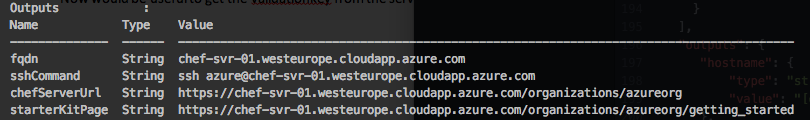
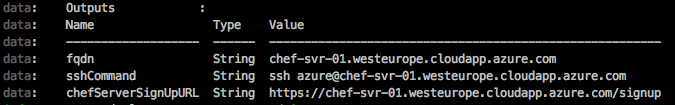
Updates to support the new Chef AMP Image 3.1.0 Setup script has been simplified Template has been updated to allow being used as part of a larger template as a shared template Added changelog file to track the changes to the now versioned template

diff --git a/arm-chef-server/README.md b/arm-chef-server/README.md
@@ -1,31 +1,36 @@
 # Creating a Chef Server using an ARM template
 
-This template will create a Chef server in the specified resource group.  The software will be installed and configured according to the parameters that have been supplied.  This update means that no manual operations are required to get the Chef server up and running.
+This template will create a Chef server in the specified resource group.  The script will ensure that the FDQN of the machine is set correctly and will reconfigure the Chef server.  After that it is necessary to configure the server using the web interface which will be at https://<FQDN>/signup.
 
 ## Parameters
 
 The following table describes what each parameter is used for and any that have default values.
 
-| Name               | Description                                                                                                           | Default Value     | Example     |
-|:-------------------|:----------------------------------------------------------------------------------------------------------------------|:------------------|:------------|
-| vmName             | Name of the virtual machine                                                                                           |                   | chef-svr-01 |
-| adminUsername      | SSH username for the server                                                                                           | azure             |             |
-| adminPassword      | Password for the admin user                                                                                           |                   |             |
-| dnsLabelPrefix     | Name that will be assigned to the DNS to make an FQDN for the machine. Typically this would be the same as the vmName |                   | chef-svr-01 |
-| chefServerSKU      | Name of the Chef Server SKU to use.                                                                                   | chefbyol          |             |
-| chefAdminUser      | Username of the account to create on the chef server                                                                  | admin             |             |
-| chefAdminPassword  | Password to be associated with the admin user                                                                         |                   |             |
-| chefAdminFirstname | Firstname of the admin account user                                                                                   | Admin             |             |
-| chefAdminLastname  | Lastname of the admin account user                                                                                    | Account           |             |
-| chefAdminEmail     | Email address for the admin account                                                                                   |                   |             |
-| chefOrganization   | Name of the first organization to create on the chef server                                                           |                   | AzureOrg    |
-| customScriptURL    | The Public URL from which the script to setup the server can be downloaded from.                                      | &lt;SEE BELOW&gt; |             |
+| Name            | Description                                                                                                           | Default Value     | Example     |
+|:----------------|:----------------------------------------------------------------------------------------------------------------------|:------------------|:------------|
+| vmName          | Name of the virtual machine                                                                                           |                   | chef-svr-01 |
+| adminUsername   | SSH username for the server                                                                                           | azure             |             |
+| adminPassword   | Password for the admin user                                                                                           |                   |             |
+| dnsLabelPrefix  | Name that will be assigned to the DNS to make an FQDN for the machine. Typically this would be the same as the vmName |                   | chef-svr-01 |
+| chefServerSKU   | Name of the Chef Server SKU to use.                                                                                   | chefbyol          |             |
+| customScriptURL | The Public URL from which the script to setup the server can be downloaded from.                                      | &lt;SEE BELOW&gt; |             |
 
 Any of the parameters that have a default value do not appear in the `chefserver.parameters.json` file.  However to override the values add them to this file as required.
 
-The organization name will be converted to lowercase when passed to the configuration script as this is a requirement of the chef server.  Ensure that the organization name does not contain spaces.
-
 The `customScriptURL` is set to 'https://raw.githubusercontent.com/chef-partners/arm-templates/master/arm-chef-server/scripts/setup-chefserver.sh' by default which is the script in this repo `scripts\setup-chefserver.sh`.
+
+The template has been updated so that it can be used as a shared template in other ARM templates.  This makes it much easier to reuse the template without having to define it each time in other more complex templates.  The following parameters can be set and are intended to be specified when the template is part of a larger one.
+
+| Name                        | Description                                                  | Default Value     |
+|:----------------------------|:-------------------------------------------------------------|:------------------|
+| vmSize                      | Size of VM to build within Azure                             | Standard_D1       |
+| virtualNetworkName          | Name of the virtual network to create in the resource group  | chefNetwork       |
+| addressPrefix               | Network range of the virtual network                         | 10.0.0.0/24       |
+| subnetName                  | Name of the subnet to create within the virtual network      | chefSubnet        |
+| subnetPrefix                | Address range for the new subnet                             | 10.0.0.0/28       |
+| storageAccountName          | Name of the storage account to create                        | &lt;SEE BELOW&gt; |
+| storageAccountType          | Type of storage account to use                               | Standard_LRS      |
+| storageAccountContainerName | Name of the container in which the hard disks will be stored | vhds              |
 
 ## Run the template into Azure
 
@@ -79,15 +84,16 @@ C:\> New-AzureRmResoureGroupDeployment -ResourceGroupName "<NAME_OF_RESOURCE_GRO
 
 Once the server has been provisioned, the configured outputs will be displayed.  These outputs are as shown below:
 
-| Name           | Description                                                                                                             |
-|:---------------|:------------------------------------------------------------------------------------------------------------------------|
-| fqdn           | The fully qualified domain name of the server.  This will be of the form <dnsLabelPrefix>.<location>.cloudapp.azure.com |
-| sshCommand     | The ssh command required to login to the server with the correct user                                                   |
-| chefServerUrl  | The concatenated URL for the server which includes the organization name                                                |
-| starterKitPage | URL to the page on the server where the validation keys can be downloaded                                               |
+| Name                | Description                                                                                                             |
+|:--------------------|:------------------------------------------------------------------------------------------------------------------------|
+| fqdn                | The fully qualified domain name of the server.  This will be of the form <dnsLabelPrefix>.<location>.cloudapp.azure.com |
+| sshCommand          | The ssh command required to login to the server with the correct user                                                   |
+| chefServerSignUpURL | The URL that is to be used to signup and verify that the server is being configured                                     |
 
 ![ARM Template Outputs](/arm-chef-server/images/outputs.png)
 
-Use the `startKitPage` URL to regenerate the organization keys by clicking on 'Download Starter Kit' on the page.
+Once the server has built go to the url as specified in the `chefServerSignUpUrl` and enter the name of the virtual machine into the form.  This is so that there the system can be sure that it is being configured by the same person that built it.  After signup the system will redirect to the login page where a new account can be created.
 
 For more information about using the Azure Marketplace chef server please refer to https://docs.chef.io/azure_portal.html.
+
+Note:  After the configuration it maybe necessary to restart the chef server using `chef-server-ctl restart`

diff --git a/arm-chef-server/CHANGELOG.md b/arm-chef-server/CHANGELOG.md
@@ -1,0 +1,10 @@
+# Change Log
+
+## 1.0.0.2 (2016-05-06)
+
+**Implemented Enhancements**
+
+ - Script modified to reflect the setup and configuration changes in the new Chef AMP image (3.1.0)
+ - Updated template so that it is possible to use as part of a larger ARM template using shared URLs
+ - URL to the signup page has been added as an output of the template
+ - Added CHANGELOG file
